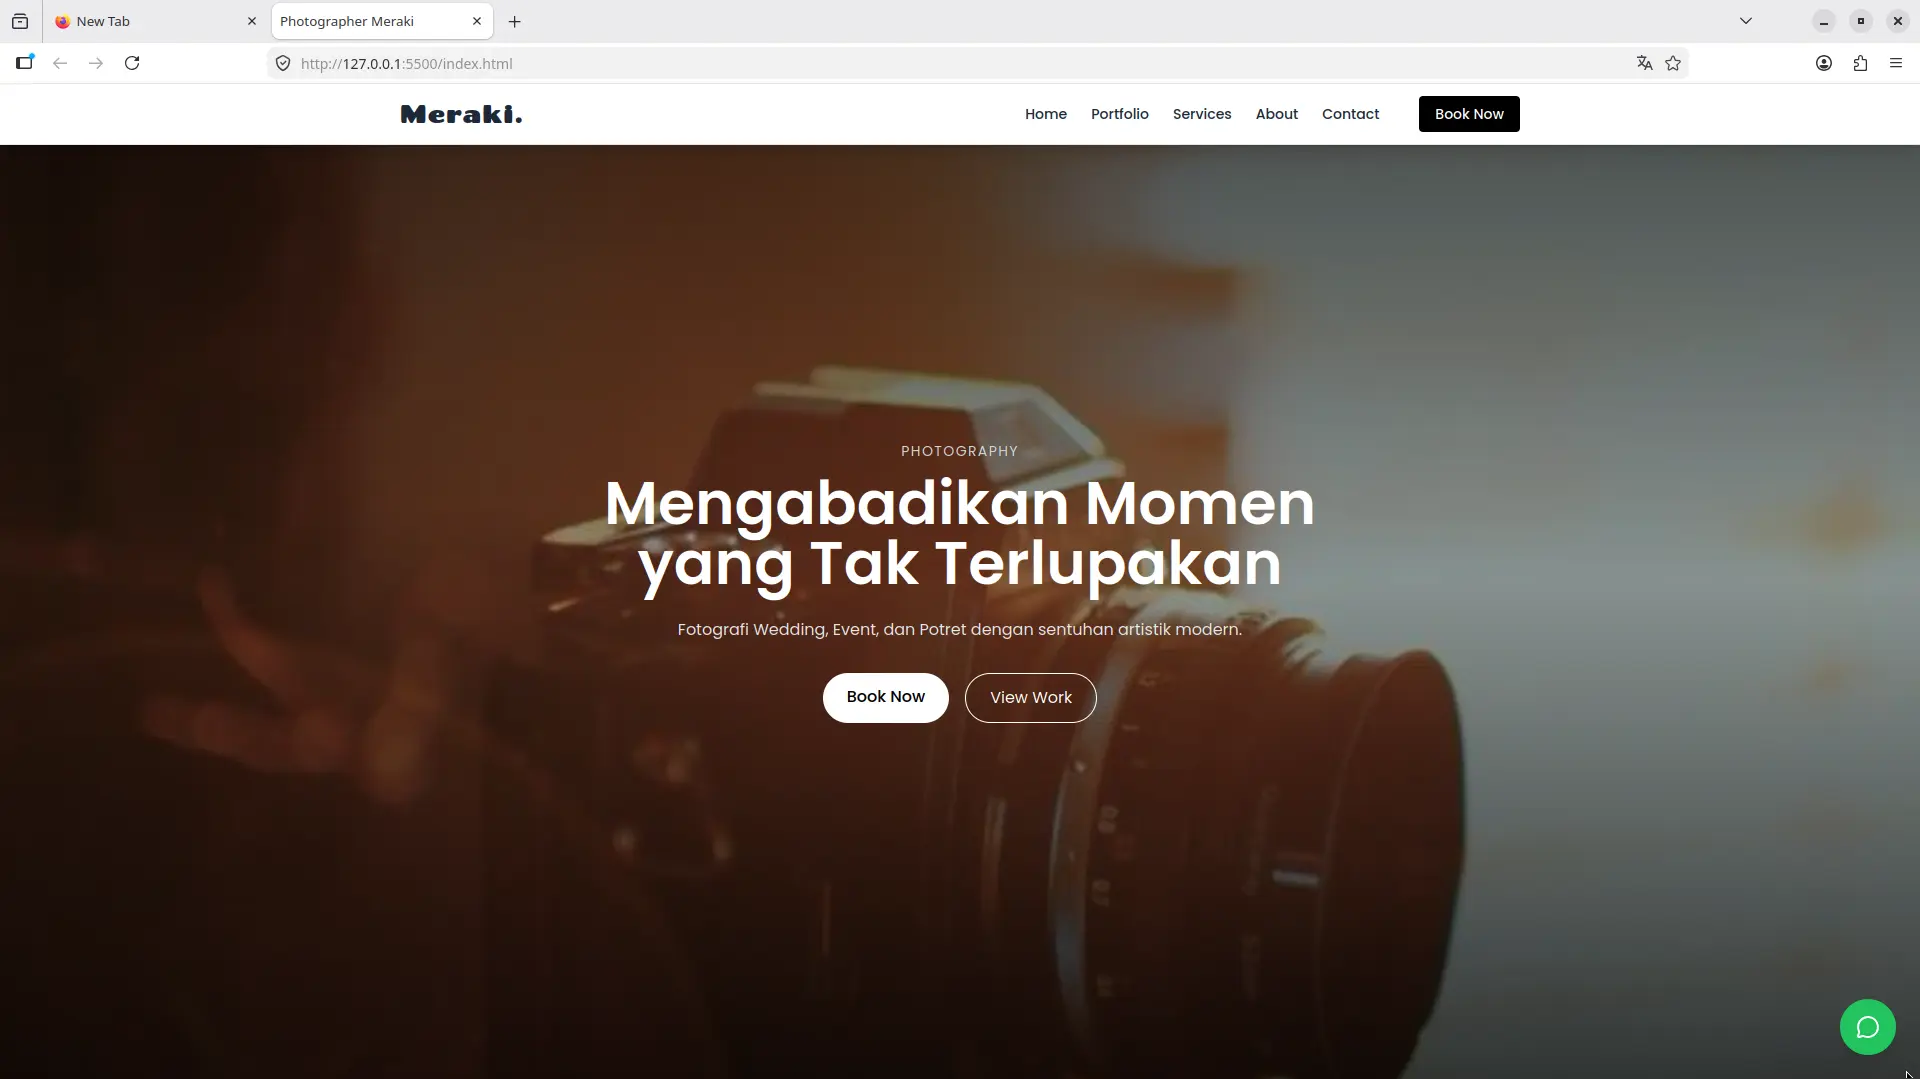
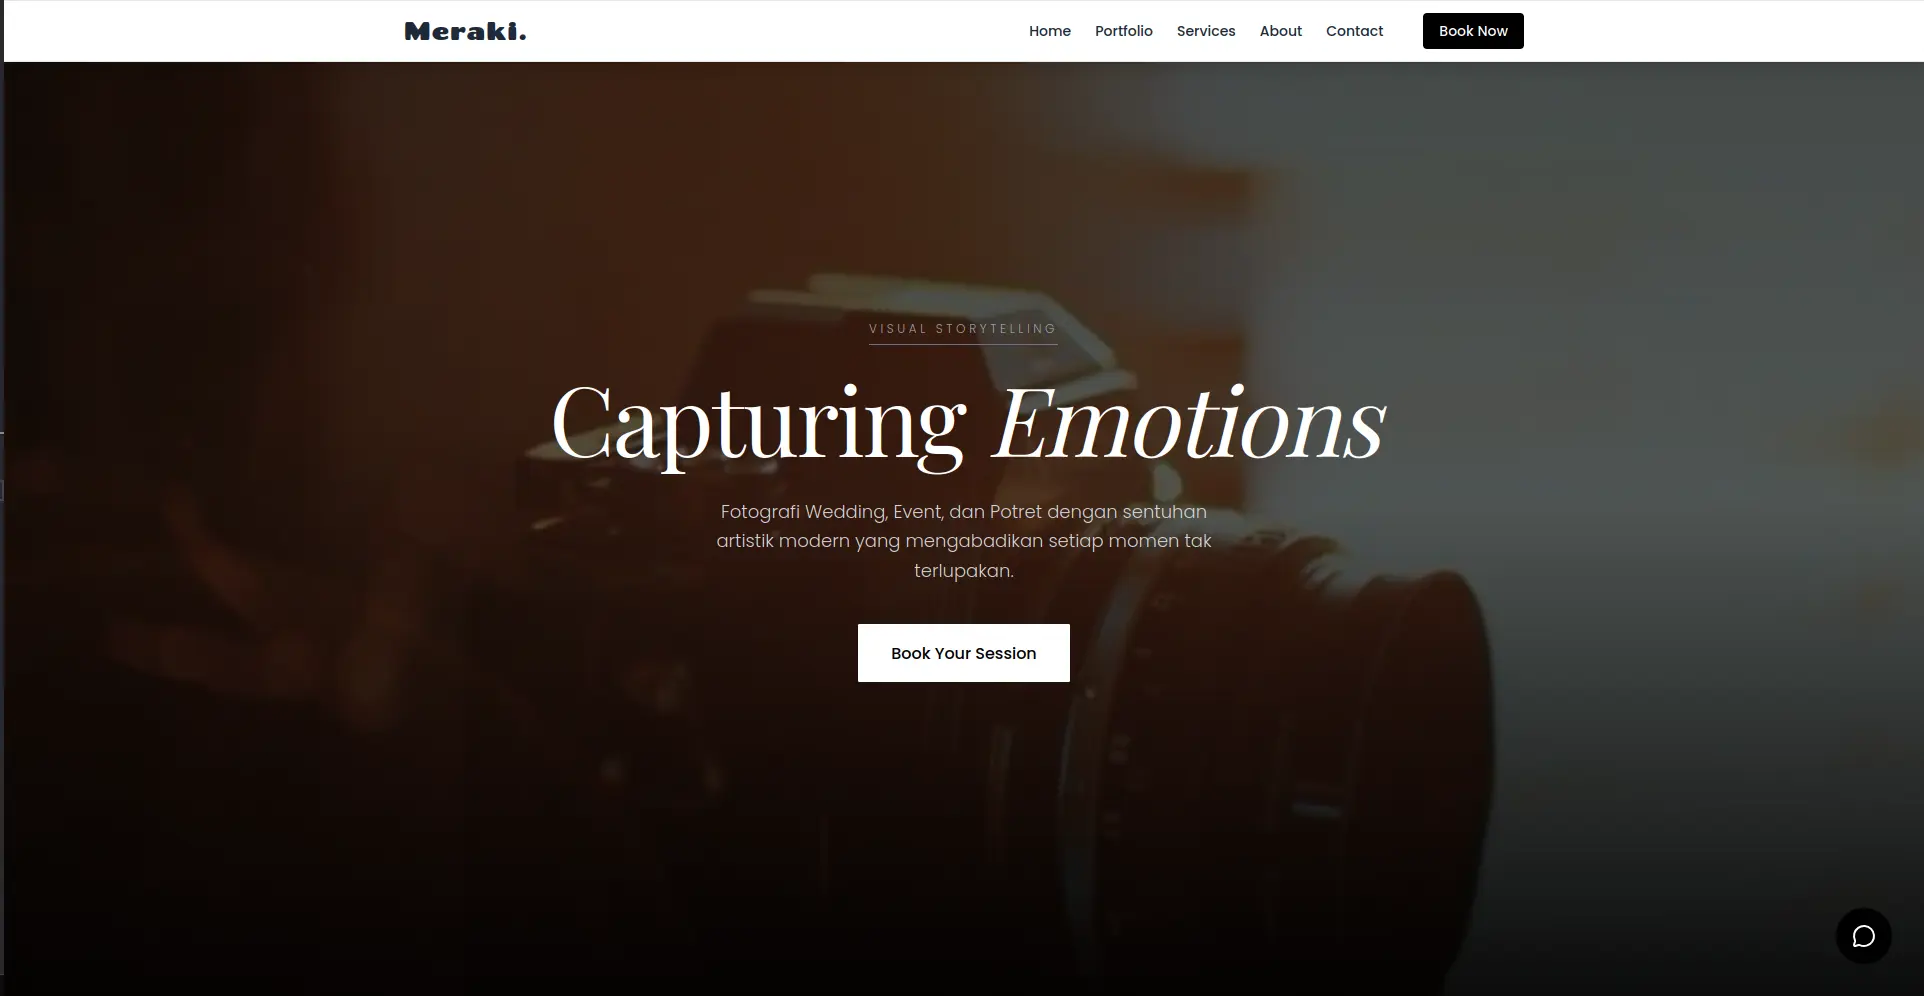
Initial commit: nambah photographer

diff --git a/index.html b/index.html
@@ -28,7 +28,7 @@
             <div class="px-2 py-2 flex justify-between items-center">
 
                 <a href="index.html" class="text-sm font-black tracking-[0.25em] text-white uppercase font-mono transition duration-300 hover:opacity-80">
-                    CoDEVIL
+                    <img src="img/logo/evil.png" alt="CoDEVIL" class="h-[40px] md:h-[45px] object-contain">
                 </a>
 
                 <div class="hidden md:flex space-x-8 font-mono text-[11px] font-bold text-zinc-400 uppercase tracking-wider">
@@ -576,7 +576,7 @@
                 </div>
 
                 <div data-aos="fade-up" data-aos-duration="800" data-aos-delay="200">
-                    <a href="https://link-web-makanan-lu.com" target="_blank"
+                    <a href="https://codevil-stack.github.io/web_photographer/" target="_blank"
                         class="group bg-white border border-zinc-200 rounded-3xl p-5 shadow-xs hover:shadow-xl hover:border-zinc-300 transition duration-300 flex flex-col justify-between h-full relative overflow-hidden">
 
                         <div class="relative z-10">

diff --git a/artikel-linus.html b/artikel-linus.html
@@ -24,7 +24,7 @@
             <div class="px-2 py-2 flex justify-between items-center">
 
                 <a href="index.html" class="text-sm font-black tracking-[0.25em] text-white uppercase font-mono transition duration-300 hover:opacity-80">
-                    CoDEVIL
+                    <img src="img/logo/evil.png" alt="CoDEVIL" class="h-[40px] md:h-[45px] object-contain">
                 </a>
 
                 <div class="hidden md:flex space-x-8 font-mono text-[11px] font-bold text-zinc-400 uppercase tracking-wider">

diff --git a/artikel-linux-server.html b/artikel-linux-server.html
@@ -17,7 +17,7 @@
             <div class="px-2 py-2 flex justify-between items-center">
 
                 <a href="index.html" class="text-sm font-black tracking-[0.25em] text-white uppercase font-mono transition duration-300 hover:opacity-80">
-                    CoDEVIL
+                    <img src="img/logo/evil.png" alt="CoDEVIL" class="h-[40px] md:h-[45px] object-contain">
                 </a>
 
                 <div class="hidden md:flex space-x-8 font-mono text-[11px] font-bold text-zinc-400 uppercase tracking-wider">

diff --git a/artikel-sejarah-komputer.html b/artikel-sejarah-komputer.html
@@ -20,7 +20,7 @@
             <div class="px-2 py-2 flex justify-between items-center">
 
                 <a href="index.html" class="text-sm font-black tracking-[0.25em] text-white uppercase font-mono transition duration-300 hover:opacity-80">
-                    CoDEVIL
+                    <img src="img/logo/evil.png" alt="CoDEVIL" class="h-[40px] md:h-[45px] object-contain">
                 </a>
 
                 <div class="hidden md:flex space-x-8 font-mono text-[11px] font-bold text-zinc-400 uppercase tracking-wider">
